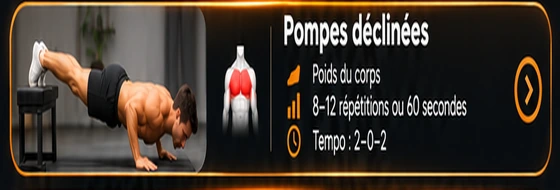
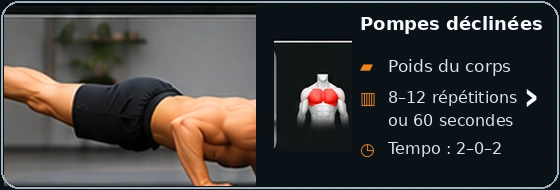
Add files via upload

diff --git a/sw.js b/sw.js
@@ -1,5 +1,5 @@
 const CACHE="ma-bibliotheque-v72";
-const ASSETS=["./","./index.html","./styles.css","./app.js","./data.json","./manifest.json","./icon-192.png","./icon-512.png","./cat-cakes-desserts.webp","./cat-cakes-sales-terrines.webp","./cat-pancakes-gaufres.webp","./cat-pains-pizzas-bruschettas.webp","./cat-quiches-tartes.webp","./cat-pates-a-tartiner.webp","./cat-plats-sales.webp","./cat-recettes-mer.webp","./cat-pates.webp","./cat-salades.webp","./cat-soupes.webp","./cat-mijoteuse.webp","./univers-musculation.webp","./muscu-menu-exercices.png","./muscu-menu-seances.png","./muscu-menu-autre-sport.png","./muscu-menu-historique.png","./exercice-groupe-pectoraux.webp","./exercice-groupe-dos.webp","./exercice-groupe-epaules.webp","./exercice-groupe-biceps.webp","./exercice-groupe-triceps.webp","./exercice-groupe-jambes.webp","./exercice-groupe-abdominaux.webp","./pectoraux-page-final.webp","./pectoraux-pompes-classiques.webp","./pectoraux-pompes-inclinees.webp","./pectoraux-pompes-declinees.webp","./pectoraux-developpe-sol-halteres.webp","./pectoraux-ecarte-sol-halteres.webp","./pectoraux-pullover-haltere.webp","./pectoraux-presse-unilaterale-sol.webp","./pectoraux-pompes-prise-large.webp","./pectoraux-pompes-tempo-lent.webp","./pectoraux-squeeze-press-halteres.webp","./biceps-curl-marteau.webp","./biceps-curl-classique.webp","./biceps-curl-alterne.webp","./biceps-curl-concentration.webp","./biceps-curl-zottman.webp","./biceps-curl-prise-inversee.webp","./biceps-curl-assis.webp","./biceps-curl-unilateral.webp","./biceps-curl-isometrique.webp","./biceps-curl-kettlebell.webp","./seance-haut-corps-v2.png","./seance-bas-corps-v2.png","./seance-corps-complet-v2.png","./seance-abdos-gainage-v2.png","./sport-marche-v3.png","./sport-course-v3.png","./sport-velo-v3.png","./sport-velo-appartement-v3.png","./sport-paddle-v3.png","./recette-r014-gaufres-ig-bas-proteinees.png","./recette-r017-pancakes-proteines-ig-bas.png","./recette-r001-appareil-a-quiche-proteine-ig-bas.png","./recette-r013-gaufres-au-thon.png","./recette-r021-quiche-proteinee-legumes-sans-pate.png","./recette-r022-quiche-proteinee-legumes-thon-sans-pate.png","./recette-r023-quiche-proteinee-poulet-epinards-skyr-sans-pate.png","./recette-r029-pate-brisee-farine-pois-chiches.png","./recette-r031-pancakes-courgettes-parmesan.png","./recette-r019-choco-noisette-saine.png","./recette-r020-choco-noisette-ig-bas.png","./recette-r035-pate-amandes.png","./recette-r036-pate-cacahuetes.png","./recette-r058-veloute-pois-chiches-courgette-poireau-cumin.webp","./recette-r101-salade-poulet-avocat-oeufs.webp","./recette-r102-salade-pommes-terre-thon-oeufs.webp","./recette-r103-salade-cabillaud-avocat-oeufs.webp","./recette-r104-salade-poulet-croustillant.webp","./recette-r105-salade-mediterraneenne-pois-chiches.webp","./recette-r106-salade-pates-poulet-mozzarella.webp","./recette-r107-salade-crevettes-avocat-mangue.webp","./recette-r108-salade-quinoa-legumes-rotis-pois-chiches.webp","./recette-r109-salade-boeuf-grille-avocat.webp","./recette-r110-salade-riz-basmati-thon-oeufs.webp","./recette-r089-lasagnes-volaille-legumes.webp","./recette-r090-lasagnes-blanches-volaille-legumes.webp","./recette-r126-pates-poulet-courgettes-tomates.webp","./recette-r127-pates-pesto-tomates-parmesan.webp","./recette-r128-pates-cremeuses-poulet-champignons-epinards.webp","./recette-r129-pates-poulet-epinards-tomates.webp","./recette-r130-pates-thon-courgette-poivron-olives.webp","./recette-r131-pates-brocoli-burrata-tomates.webp","./recette-r132-pates-lentilles-corail-basilic.webp","./recette-r133-pates-lentilles-corail-tomates-confites-basilic.webp","./recette-r071-bowl-calamars-romaine.webp","./recette-r072-tacos-calamars-romaine.webp","./recette-r073-calamars-orge-legumes-rotis.webp","./recette-r074-risotto-mer-citron-safran-calamars.webp","./recette-r078-crevettes-courgettes-quinoa.webp","./recette-r079-crevettes-pois-chiches-legumes.webp","./recette-r002-cake-chocolat-poire-pepites.png","./recette-r005-cake-marbre-proteine-avoine-amande-lupin.png","./recette-r007-cake-proteine-myrtilles-chocolat.png","./recette-r011-flan-proteine-myrtille-citron.png","./recette-r030-gateau-fromage-blanc.png","./recette-r037-clafoutis-leger-pommes.png","./recette-r075-cake-proteine-ananas-coco-vanille.png","./recette-r076-tiramisu-proteine-cafe-chia.png","./recette-r077-tiramisu-proteine-poire-chocolat-chia.png","./recette-r091-cake-proteine-banane-chocolat.png","./recette-r092-cake-proteine-pomme-cannelle.png","./recette-r093-cake-proteine-banane-coco.png","./recette-r094-cake-proteine-chocolat-compote.png","./recette-r095-cake-proteine-poire-amande.png","./recette-r096-cake-proteine-carotte-cannelle-noix.png","./recette-r097-cake-proteine-banane-fruits-rouges.png","./recette-r098-cake-proteine-pomme-coco.png","./recette-r099-cake-proteine-citron-amande.png","./recette-r100-cake-proteine-banane-cacao-noisette.png","./recette-r003-cake-courgette-poivron-feta.png","./recette-r004-cake-jambon-epinards-chevre.png","./recette-r006-cake-poulet-courgette-parmesan.png","./recette-r008-cake-legumes-du-soleil.png","./recette-r009-cake-thon-courgette-skyr-sans-farine.png","./recette-r010-cake-thon-tomate-olives.png","./recette-r024-terrine-legumes-ete.png","./recette-r025-terrine-fraiche-thon-courgette.png","./recette-r038-cake-epinards-feta.png","./recette-r039-cake-poulet-curry.png","./recette-r040-cake-poivron-mozzarella.png","./recette-r041-cake-champignons-comte.png","./recette-r042-cake-carotte-chevre.png","./recette-r043-cake-thon-olives.png","./recette-r080-flan-courgettes-parmesan-skyr.png","./recette-r081-terrine-poulet-legumes.png","./recette-r082-clafoutis-tomates-courgettes-fromage.png","./recette-r083-terrine-champignons-poireaux-emmental.png","./recette-r084-gateau-pommes-terre-courgettes-chevre.png","./recette-r085-gateau-pommes-terre-chou-fleur-chevre.png","./recette-r026-wok-poulet-pousses-soja.png","./recette-r059-poulet-pommes-terre-brocoli.png","./recette-r060-saumon-riz-legumes.png","./recette-r061-poulet-cremeux-champignons-pates.png","./recette-r062-boeuf-pommes-terre-carottes-mijotes.png","./recette-r063-saucisses-pommes-terre-poivrons.png","./recette-r064-poulet-riz-legumes.png","./recette-r065-crevettes-riz-brocoli.png","./recette-r066-poulet-tex-mex-haricots-mais.png","./recette-r067-gnocchis-poulet-tomates.png","./recette-r068-boulettes-boeuf-orzo-tomates.png","./recette-r069-poulet-citron-orzo-epinards.png","./recette-r070-boeuf-cremeux-champignons-pates.png","./recette-r112-boeuf-bourguignon-mijoteuse-v2.png","./recette-r113-poulet-cremeux-ail-v2.png","./recette-r114-porc-effiloche-sauce-barbecue-v2.png","./recette-r115-ragout-boeuf-legumes-pommes-terre-v2.png","./recette-r116-boulettes-boeuf-sauce-tomate-v2.png","./recette-r117-poulet-champignons-creme-v2.png","./recette-r118-boeuf-oignons-sauce-brune-v2.png","./recette-r119-poulet-citron-herbes-v2.png","./recette-r120-porc-champignons-oignons-v2.png","./recette-r121-chili-boeuf-haricots-blancs-v2.png","./recette-r122-poulet-cremeux-pommes-terre-v3.png","./recette-r123-boeuf-mijote-thym-v2.png","./recette-r124-poulet-barbecue-miel-v3.png","./recette-r125-roti-porc-pommes-terre-v3.png","./recette-r012-fougasse-petit-epeautre-v2.png","./recette-r015-pain-complet-ig-bas-v2.png","./recette-r016-pain-pomme-terre-skyr-v2.png","./recette-r018-pate-pizza-ig-bas-v2.png","./recette-r027-pain-sarrasin-pois-chiches-graines-v2.png","./recette-r028-pain-sarrasin-v2.png","./recette-r032-pizza-express-proteinee-v2.png","./recette-r033-petits-pains-pois-chiches-v2.png","./recette-r034-pain-lentilles-corail-v2.png","./recette-r044-bruschetta-tomate-basilic-v2.png","./recette-r045-bruschetta-mozzarella-tomates-cerises.png","./recette-r046-bruschetta-jambon-cru-roquette.png","./recette-r047-bruschetta-ricotta-miel.png","./recette-r048-bruschetta-champignons-ail.png","./recette-r049-bruschetta-poivron-roti.png","./recette-r050-bruschetta-saumon-fromage-frais.png","./recette-r051-bruschetta-avocat-citron-vert.png","./recette-r052-bruschetta-thon-olives.png","./recette-r053-bruschetta-chevre-figues.png","./recette-r054-bruschetta-pesto-tomates-sechees.png","./recette-r055-bruschetta-burrata-pesto.png","./recette-r056-bruschetta-poulet-tomates-sechees.png","./recette-r057-bruschetta-crevettes-avocat.png","./recette-r086-pain-lentilles-corail.png","./recette-r087-pain-lentilles-avoine-lupin.png","./recette-r088-pain-nordique-graines.png","./recette-r111-pain-100-sarrasin.png"];
+const ASSETS=["./","./index.html","./styles.css","./app.js","./data.json","./manifest.json","./icon-192.png","./icon-512.png","./cat-cakes-desserts.webp","./cat-cakes-sales-terrines.webp","./cat-pancakes-gaufres.webp","./cat-pains-pizzas-bruschettas.webp","./cat-quiches-tartes.webp","./cat-pates-a-tartiner.webp","./cat-plats-sales.webp","./cat-recettes-mer.webp","./cat-pates.webp","./cat-salades.webp","./cat-soupes.webp","./cat-mijoteuse.webp","./univers-musculation.webp","./muscu-menu-exercices.png","./muscu-menu-seances.png","./muscu-menu-autre-sport.png","./muscu-menu-historique.png","./exercice-groupe-pectoraux.webp","./exercice-groupe-dos.webp","./exercice-groupe-epaules.webp","./exercice-groupe-biceps.webp","./exercice-groupe-triceps.webp","./exercice-groupe-jambes.webp","./exercice-groupe-abdominaux.webp","./pectoraux-pompes-classiques.webp","./pectoraux-pompes-inclinees.webp","./pectoraux-pompes-declinees.webp","./pectoraux-developpe-sol-halteres.webp","./pectoraux-ecarte-sol-halteres.webp","./pectoraux-pullover-haltere.webp","./pectoraux-presse-unilaterale-sol.webp","./pectoraux-pompes-prise-large.webp","./pectoraux-pompes-tempo-lent.webp","./pectoraux-squeeze-press-halteres.webp","./biceps-curl-marteau.webp","./biceps-curl-classique.webp","./biceps-curl-alterne.webp","./biceps-curl-concentration.webp","./biceps-curl-zottman.webp","./biceps-curl-prise-inversee.webp","./biceps-curl-assis.webp","./biceps-curl-unilateral.webp","./biceps-curl-isometrique.webp","./biceps-curl-kettlebell.webp","./seance-haut-corps-v2.png","./seance-bas-corps-v2.png","./seance-corps-complet-v2.png","./seance-abdos-gainage-v2.png","./sport-marche-v3.png","./sport-course-v3.png","./sport-velo-v3.png","./sport-velo-appartement-v3.png","./sport-paddle-v3.png","./recette-r014-gaufres-ig-bas-proteinees.png","./recette-r017-pancakes-proteines-ig-bas.png","./recette-r001-appareil-a-quiche-proteine-ig-bas.png","./recette-r013-gaufres-au-thon.png","./recette-r021-quiche-proteinee-legumes-sans-pate.png","./recette-r022-quiche-proteinee-legumes-thon-sans-pate.png","./recette-r023-quiche-proteinee-poulet-epinards-skyr-sans-pate.png","./recette-r029-pate-brisee-farine-pois-chiches.png","./recette-r031-pancakes-courgettes-parmesan.png","./recette-r019-choco-noisette-saine.png","./recette-r020-choco-noisette-ig-bas.png","./recette-r035-pate-amandes.png","./recette-r036-pate-cacahuetes.png","./recette-r058-veloute-pois-chiches-courgette-poireau-cumin.webp","./recette-r101-salade-poulet-avocat-oeufs.webp","./recette-r102-salade-pommes-terre-thon-oeufs.webp","./recette-r103-salade-cabillaud-avocat-oeufs.webp","./recette-r104-salade-poulet-croustillant.webp","./recette-r105-salade-mediterraneenne-pois-chiches.webp","./recette-r106-salade-pates-poulet-mozzarella.webp","./recette-r107-salade-crevettes-avocat-mangue.webp","./recette-r108-salade-quinoa-legumes-rotis-pois-chiches.webp","./recette-r109-salade-boeuf-grille-avocat.webp","./recette-r110-salade-riz-basmati-thon-oeufs.webp","./recette-r089-lasagnes-volaille-legumes.webp","./recette-r090-lasagnes-blanches-volaille-legumes.webp","./recette-r126-pates-poulet-courgettes-tomates.webp","./recette-r127-pates-pesto-tomates-parmesan.webp","./recette-r128-pates-cremeuses-poulet-champignons-epinards.webp","./recette-r129-pates-poulet-epinards-tomates.webp","./recette-r130-pates-thon-courgette-poivron-olives.webp","./recette-r131-pates-brocoli-burrata-tomates.webp","./recette-r132-pates-lentilles-corail-basilic.webp","./recette-r133-pates-lentilles-corail-tomates-confites-basilic.webp","./recette-r071-bowl-calamars-romaine.webp","./recette-r072-tacos-calamars-romaine.webp","./recette-r073-calamars-orge-legumes-rotis.webp","./recette-r074-risotto-mer-citron-safran-calamars.webp","./recette-r078-crevettes-courgettes-quinoa.webp","./recette-r079-crevettes-pois-chiches-legumes.webp","./recette-r002-cake-chocolat-poire-pepites.png","./recette-r005-cake-marbre-proteine-avoine-amande-lupin.png","./recette-r007-cake-proteine-myrtilles-chocolat.png","./recette-r011-flan-proteine-myrtille-citron.png","./recette-r030-gateau-fromage-blanc.png","./recette-r037-clafoutis-leger-pommes.png","./recette-r075-cake-proteine-ananas-coco-vanille.png","./recette-r076-tiramisu-proteine-cafe-chia.png","./recette-r077-tiramisu-proteine-poire-chocolat-chia.png","./recette-r091-cake-proteine-banane-chocolat.png","./recette-r092-cake-proteine-pomme-cannelle.png","./recette-r093-cake-proteine-banane-coco.png","./recette-r094-cake-proteine-chocolat-compote.png","./recette-r095-cake-proteine-poire-amande.png","./recette-r096-cake-proteine-carotte-cannelle-noix.png","./recette-r097-cake-proteine-banane-fruits-rouges.png","./recette-r098-cake-proteine-pomme-coco.png","./recette-r099-cake-proteine-citron-amande.png","./recette-r100-cake-proteine-banane-cacao-noisette.png","./recette-r003-cake-courgette-poivron-feta.png","./recette-r004-cake-jambon-epinards-chevre.png","./recette-r006-cake-poulet-courgette-parmesan.png","./recette-r008-cake-legumes-du-soleil.png","./recette-r009-cake-thon-courgette-skyr-sans-farine.png","./recette-r010-cake-thon-tomate-olives.png","./recette-r024-terrine-legumes-ete.png","./recette-r025-terrine-fraiche-thon-courgette.png","./recette-r038-cake-epinards-feta.png","./recette-r039-cake-poulet-curry.png","./recette-r040-cake-poivron-mozzarella.png","./recette-r041-cake-champignons-comte.png","./recette-r042-cake-carotte-chevre.png","./recette-r043-cake-thon-olives.png","./recette-r080-flan-courgettes-parmesan-skyr.png","./recette-r081-terrine-poulet-legumes.png","./recette-r082-clafoutis-tomates-courgettes-fromage.png","./recette-r083-terrine-champignons-poireaux-emmental.png","./recette-r084-gateau-pommes-terre-courgettes-chevre.png","./recette-r085-gateau-pommes-terre-chou-fleur-chevre.png","./recette-r026-wok-poulet-pousses-soja.png","./recette-r059-poulet-pommes-terre-brocoli.png","./recette-r060-saumon-riz-legumes.png","./recette-r061-poulet-cremeux-champignons-pates.png","./recette-r062-boeuf-pommes-terre-carottes-mijotes.png","./recette-r063-saucisses-pommes-terre-poivrons.png","./recette-r064-poulet-riz-legumes.png","./recette-r065-crevettes-riz-brocoli.png","./recette-r066-poulet-tex-mex-haricots-mais.png","./recette-r067-gnocchis-poulet-tomates.png","./recette-r068-boulettes-boeuf-orzo-tomates.png","./recette-r069-poulet-citron-orzo-epinards.png","./recette-r070-boeuf-cremeux-champignons-pates.png","./recette-r112-boeuf-bourguignon-mijoteuse-v2.png","./recette-r113-poulet-cremeux-ail-v2.png","./recette-r114-porc-effiloche-sauce-barbecue-v2.png","./recette-r115-ragout-boeuf-legumes-pommes-terre-v2.png","./recette-r116-boulettes-boeuf-sauce-tomate-v2.png","./recette-r117-poulet-champignons-creme-v2.png","./recette-r118-boeuf-oignons-sauce-brune-v2.png","./recette-r119-poulet-citron-herbes-v2.png","./recette-r120-porc-champignons-oignons-v2.png","./recette-r121-chili-boeuf-haricots-blancs-v2.png","./recette-r122-poulet-cremeux-pommes-terre-v3.png","./recette-r123-boeuf-mijote-thym-v2.png","./recette-r124-poulet-barbecue-miel-v3.png","./recette-r125-roti-porc-pommes-terre-v3.png","./recette-r012-fougasse-petit-epeautre-v2.png","./recette-r015-pain-complet-ig-bas-v2.png","./recette-r016-pain-pomme-terre-skyr-v2.png","./recette-r018-pate-pizza-ig-bas-v2.png","./recette-r027-pain-sarrasin-pois-chiches-graines-v2.png","./recette-r028-pain-sarrasin-v2.png","./recette-r032-pizza-express-proteinee-v2.png","./recette-r033-petits-pains-pois-chiches-v2.png","./recette-r034-pain-lentilles-corail-v2.png","./recette-r044-bruschetta-tomate-basilic-v2.png","./recette-r045-bruschetta-mozzarella-tomates-cerises.png","./recette-r046-bruschetta-jambon-cru-roquette.png","./recette-r047-bruschetta-ricotta-miel.png","./recette-r048-bruschetta-champignons-ail.png","./recette-r049-bruschetta-poivron-roti.png","./recette-r050-bruschetta-saumon-fromage-frais.png","./recette-r051-bruschetta-avocat-citron-vert.png","./recette-r052-bruschetta-thon-olives.png","./recette-r053-bruschetta-chevre-figues.png","./recette-r054-bruschetta-pesto-tomates-sechees.png","./recette-r055-bruschetta-burrata-pesto.png","./recette-r056-bruschetta-poulet-tomates-sechees.png","./recette-r057-bruschetta-crevettes-avocat.png","./recette-r086-pain-lentilles-corail.png","./recette-r087-pain-lentilles-avoine-lupin.png","./recette-r088-pain-nordique-graines.png","./recette-r111-pain-100-sarrasin.png"];
 
 self.addEventListener("install", event => {
   self.skipWaiting();

diff --git a/app.js b/app.js
@@ -350,11 +350,20 @@ function renderMuscuPectoraux(){
     ["squeeze-press-halteres","Squeeze press haltères"]
   ];
   main.innerHTML=`
-    <section class="muscu-pectoraux-final" aria-label="Exercices pectoraux">
-      <div class="muscu-pectoraux-final-wrap">
-        <img class="muscu-pectoraux-final-image" src="./pectoraux-page-final.webp" alt="Pectoraux — 10 exercices à la maison">
-        <button class="muscu-pectoraux-hotspot muscu-pectoraux-hotspot-back" id="muscuPectorauxBack" aria-label="Retour aux groupes musculaires"></button>
-        ${exercises.map(([key,label],i)=>`<button class="muscu-pectoraux-hotspot muscu-pectoraux-hotspot-row" data-pectoraux-exercise="${key}" data-row="${i}" aria-label="Ouvrir ${label}"></button>`).join("")}
+    <section class="muscu-biceps-v1" aria-label="Exercices pectoraux">
+      <button class="muscu-back-pill muscu-biceps-back" id="muscuPectorauxBack" aria-label="Retour aux groupes musculaires">
+        <span class="muscu-back-arrow">←</span><span>Retour</span>
+      </button>
+      <div class="muscu-biceps-heading">
+        <div class="muscu-biceps-icon" aria-hidden="true">⌁</div>
+        <div>
+          <div class="muscu-biceps-kicker">EXERCICES</div>
+          <h2>Pectoraux</h2>
+          <p>10 exercices pour développer et renforcer les pectoraux à la maison</p>
+        </div>
+      </div>
+      <div class="muscu-biceps-list">
+        ${exercises.map(([key,label])=>`<button class="muscu-biceps-card" data-pectoraux-exercise="${key}" aria-label="Ouvrir ${label}"><img src="./pectoraux-${key}.webp" alt="${label}"></button>`).join("")}
       </div>
     </section>`;
   document.getElementById("muscuPectorauxBack")?.addEventListener("click",()=>{state.view="muscu-exercises";render();});
@@ -363,6 +372,7 @@ function renderMuscuPectoraux(){
     alert(`La fiche détaillée ${label} sera ajoutée à l’étape suivante.`);
   }));
 }
+
 function renderMuscuBiceps(){
   const exercises=[
     ["curl-marteau","Curl marteau"],
